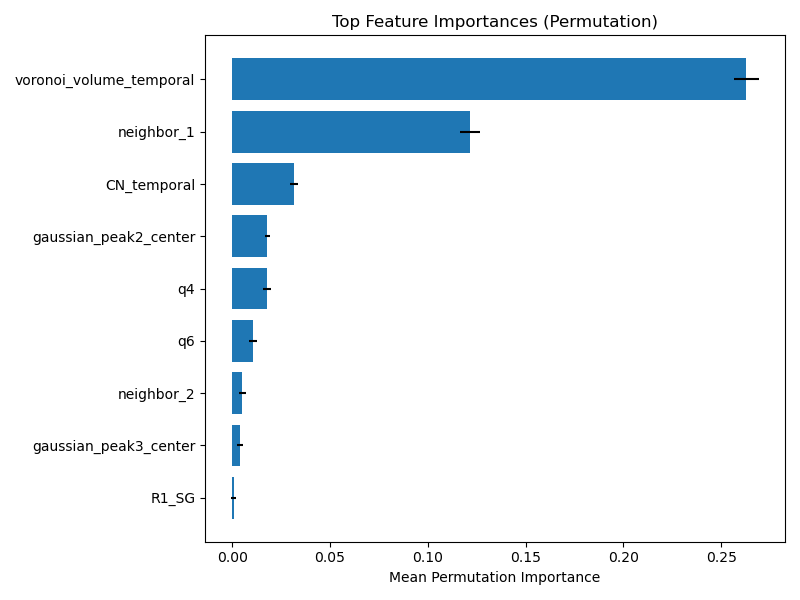
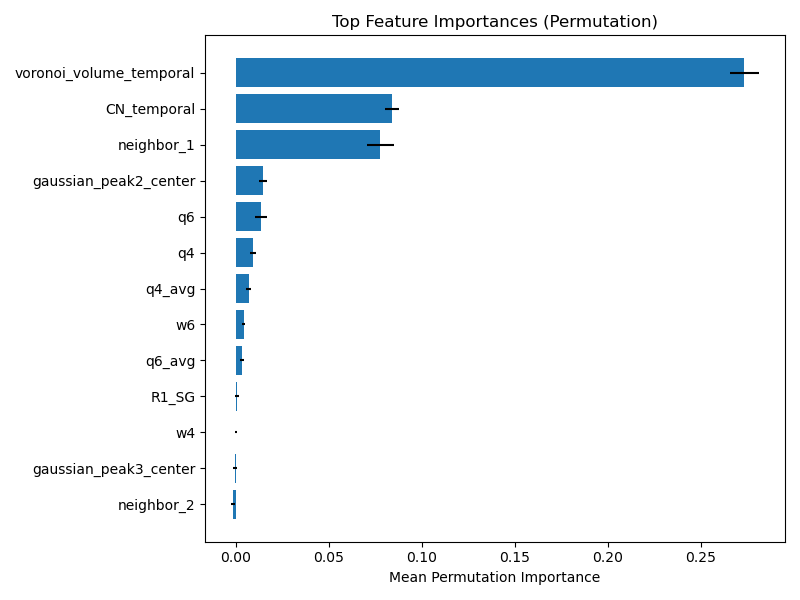
feat: update configuration and outputs

diff --git a/Machine_Learning_Pipeline_for_Materials_Science/src/pipeline.py b/Machine_Learning_Pipeline_for_Materials_Science/src/pipeline.py
@@ -1,3 +1,4 @@
+"""
 pipeline.py
 
 This module implements a full end-to-end machine learning pipeline for classification tasks 